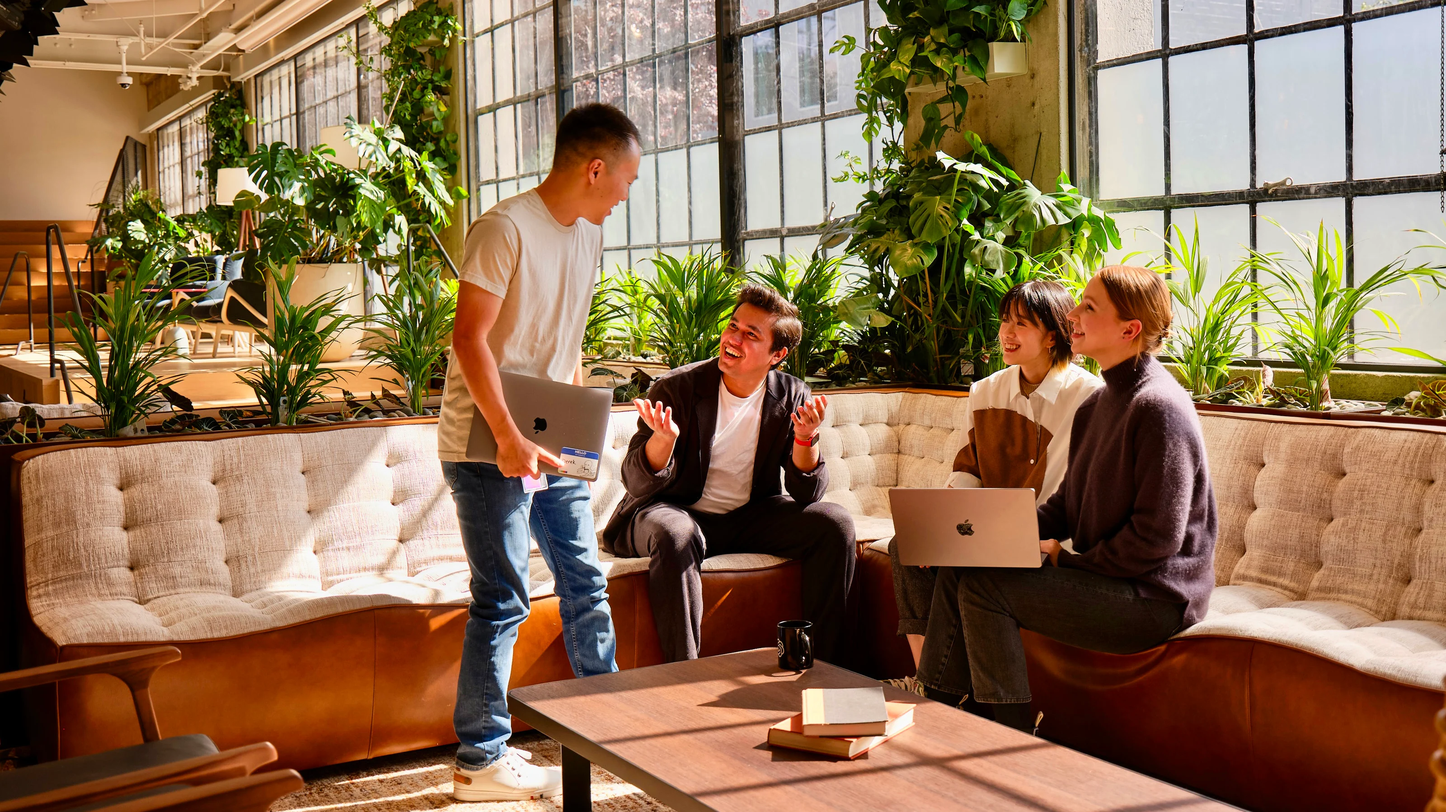
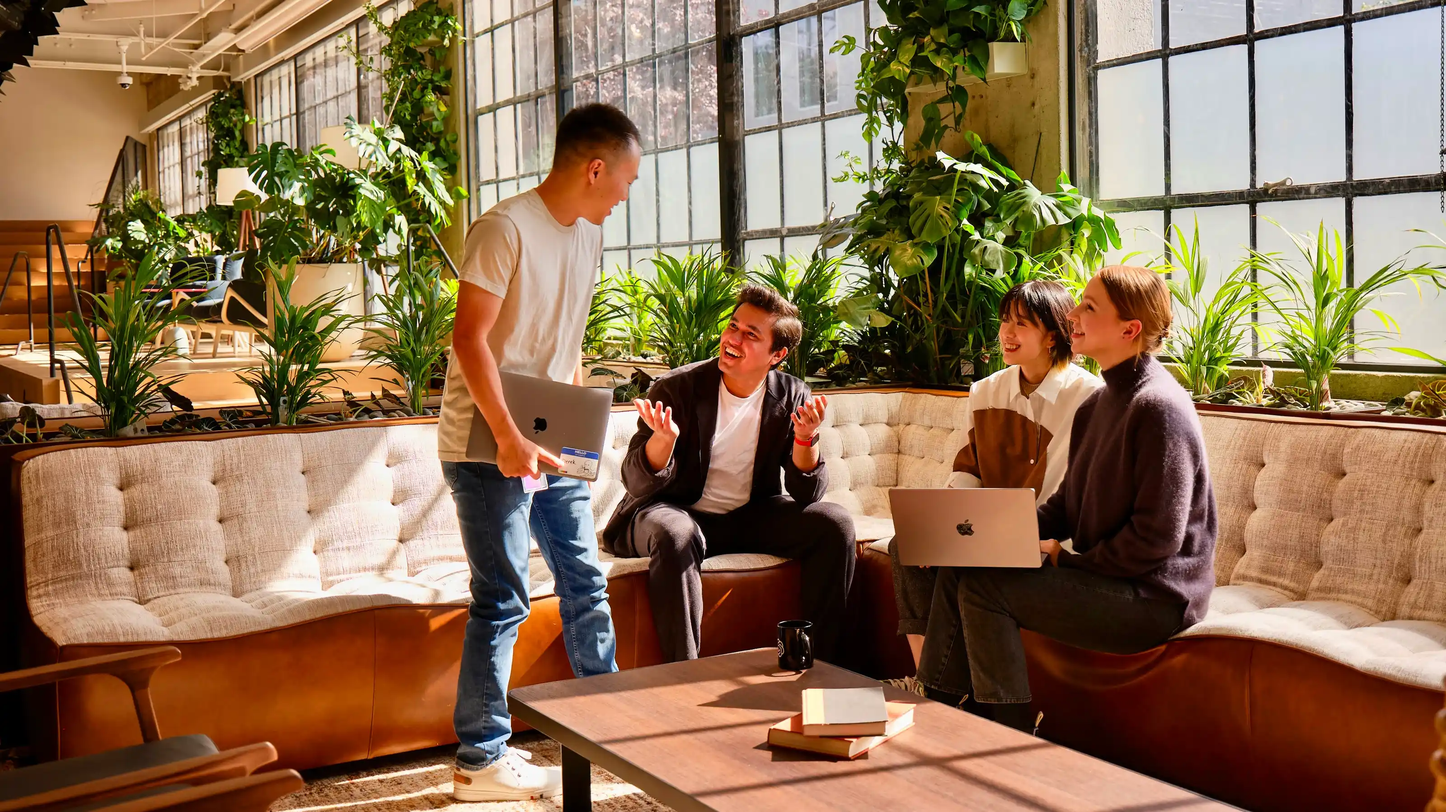
replace jpg with webp

diff --git a/_posts/chatgpt-china-cn.md b/_posts/chatgpt-china-cn.md
@@ -18,52 +18,52 @@ ChatGPT：让你拥有一个无所不知的良师益友！
 
 打开 [**https://bizoe.tech**](https://bizoe.tech) 您首先会看到一个聊天界面。 点击新的聊天，就可以向ChatGPT提任何问题。
 
-![这是图片](/assets/blog/chatgpt-china-cn/1.jpg "Front Page")
+![这是图片](/assets/blog/chatgpt-china-cn/1.webp "Front Page")
 
 这里需要访问密码才可以使用。
 
-![这是图片](/assets/blog/chatgpt-china-cn/2.jpg "Chat Page")
+![这是图片](/assets/blog/chatgpt-china-cn/2.webp "Chat Page")
 
 点击『设置』进入设置页面，可以看到『访问密码』一栏是空的。
 
-![这是图片](/assets/blog/chatgpt-china-cn/3.jpg "Settings Page")
+![这是图片](/assets/blog/chatgpt-china-cn/3.webp "Settings Page")
 
 需要订阅套餐就能获取访问密码。 点击首页下方的『订阅套餐购买访问密码』按钮，进入选择套餐页面.
 
-![这是图片](/assets/blog/chatgpt-china-cn/4.jpg "Payment Intent")
+![这是图片](/assets/blog/chatgpt-china-cn/4.webp "Payment Intent")
 
 选好其中一个套餐，点击『Proceed』按钮，进入支付页面。 
 
-![这是图片](/assets/blog/chatgpt-china-cn/5.jpg "Payment Intent")
+![这是图片](/assets/blog/chatgpt-china-cn/5.webp "Payment Intent")
 
 尊贵的苹果用户还可以选择Apple Pay支付方式。
 
-![这是图片](/assets/blog/chatgpt-china-cn/15.jpg "Payment Intent Apple Pay")
+![这是图片](/assets/blog/chatgpt-china-cn/15.webp "Payment Intent Apple Pay")
 
 只需几分钟，你就可以拥有一个专属于你的ChatGPT助手！赶快行动吧，享受无限的科技乐趣！ [**https://bizoe.tech**](https://bizoe.tech)
 
 付款成功后可以看到访问密码，请保存好访问密码，密码只会在购买成功后显示这一次。对于ChatGPT的访问完全凭借这个密码的授权。
 
-![这是图片](/assets/blog/chatgpt-china-cn/8.jpg "Payment Status")
+![这是图片](/assets/blog/chatgpt-china-cn/8.webp "Payment Status")
 
 点击右下方的『设置访问密码』按钮，进入设置页面 [**https://www.bizoe.tech/#/settings**](https://www.bizoe.tech/#/settings) 。 将刚才复制的密码粘贴过来，然后点击『重新检查』按钮，刚才购买的是一年有效期的访问密码，可以看到有效期到2024年6月8号。设置好密码之后就可以愉快的玩耍了！
 
-![这是图片](/assets/blog/chatgpt-china-cn/6.jpg "Payment Status")
+![这是图片](/assets/blog/chatgpt-china-cn/6.webp "Payment Status")
 
 无论你是想要写一首诗，画一幅画，编一段代码，还是想要和你心目中的明星聊天，ChatGPT都能满足你的需求！
 
 可以给出ChatGPT一篇大家都在谈论的英文新闻网址链接，让ChatGPT写一个概要。 
-![这是图片](/assets/blog/chatgpt-china-cn/7.jpg "Summarize")
+![这是图片](/assets/blog/chatgpt-china-cn/7.webp "Summarize")
 
 当我们想要了解某些知识的时候找不到专业人士？找ChatGPT！
-![这是图片](/assets/blog/chatgpt-china-cn/10.jpg "Summarize")
-![这是图片](/assets/blog/chatgpt-china-cn/14.jpg "Role Play Chat")
+![这是图片](/assets/blog/chatgpt-china-cn/10.webp "Summarize")
+![这是图片](/assets/blog/chatgpt-china-cn/14.webp "Role Play Chat")
 
 无聊想要找人聊天？ChatGPT可以角色扮演成你希望的样子，和你聊天解闷。
-![这是图片](/assets/blog/chatgpt-china-cn/11.jpg "Role Play Chat")
+![这是图片](/assets/blog/chatgpt-china-cn/11.webp "Role Play Chat")
 
 去澳洲旅游前想学英语？没问题！要去日本旅游了，想练几句日语？也没问题！ChatGPT支持一百多种语言随意切换！是从事涉外事务人士的福音。
-![这是图片](/assets/blog/chatgpt-china-cn/13.jpg "Role Play Chat")
+![这是图片](/assets/blog/chatgpt-china-cn/13.webp "Role Play Chat")
 
 ChatGPT，让你与科技同行！快来加入我们吧！ [**https://bizoe.tech**](https://bizoe.tech)
 
